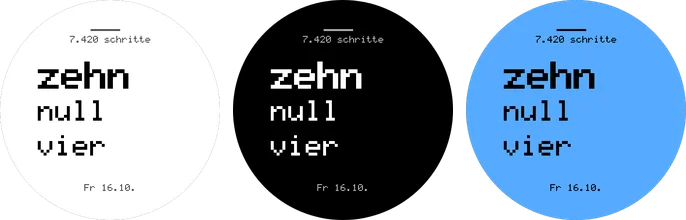
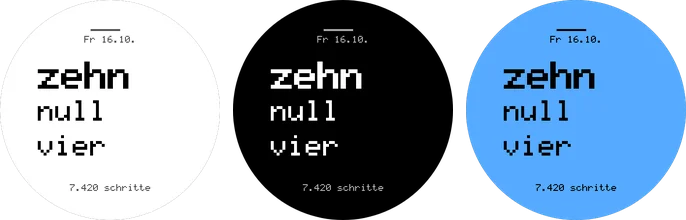
Kiesel Text: Datum oben, Schritte unten, ohne Bluetooth-Symbol
Oben Akku und Datum, unten das Datenfeld (Standard: Schritte, weiter
frei belegbar); das Bluetooth-Symbol und das Kiesel-Sprite fallen weg.

diff --git a/web/js/faces/ktext.js b/web/js/faces/ktext.js
@@ -1,17 +1,12 @@
 // KTEXT — "Kiesel Text": the Pebble's famous Text Watch in German. The time as words on up to three
 // lines, the hour in bold ("zehn / zweiund / vierzig", "zehn / null / sieben", "zehn / uhr"), set in
 // the bitmap font. On every wrist raise the lines slide in from the right one after the other, like
-// the minute change on the Pebble. Above a data field of your choice (steps by default) and the
-// battery, below the date (with a crossed-out Bluetooth icon when the phone is gone); otherwise as still
-// as e-paper. Styles: 1 Weiß, 2 Schwarz, 3 Farbe (Pebble Time palette).
+// the minute change on the Pebble. Above the battery and the date, below a data field of your choice
+// (steps by default); otherwise as still as e-paper. Styles: 1 Weiß, 2 Schwarz, 3 Farbe (Pebble Time palette).
 // Mirrors watch/source/faces/Ktext.mc.
 import { G } from "../engine/gfx.js";
 import { F } from "../engine/fonts.js";
 import { St } from "../engine/st.js";
-import { SPR, encodeAll } from "../engine/spr.js";
-import S from "../sprites/kiesel.js";
-
-const SP = encodeAll(S);
 const HW = ["zwölf", "eins", "zwei", "drei", "vier", "fünf", "sechs", "sieben", "acht", "neun", "zehn", "elf"];
 const ONES = ["", "eins", "zwei", "drei", "vier", "fünf", "sechs", "sieben", "acht", "neun"];
 const PRE = ["", "ein", "zwei", "drei", "vier", "fünf", "sechs", "sieben", "acht", "neun"];
@@ -51,7 +46,7 @@ function pal(st, acc) {
 export default {
   fps: 0,
 
-  // static layer: background, data field, battery, date, Bluetooth; the words slide in
+  // static layer: background, battery, date, data field; the words slide in
   bgKey(d) { return d.doy * 1440 + d.mins; },
   reveal() { return false; },
 
@@ -65,13 +60,9 @@ export default {
       dc.fillRectangle(0, 0, 454, 454);
       dc.setColor(P[2], -1);
       dc.fillRectangle(187, 60, Math.round(80 * G.clamp(d.batt / 100, 0, 1)), 4);
+      F.px(dc, DOW[d.dow] + " " + d.day + "." + d.mon + ".", 227, 74, 2, 1, 0);
       const s0 = d.slots[0];
-      if (s0.lbl) F.px(dc, s0.val + " " + s0.lbl.toLowerCase(), 227, 74, 2, 1, 0);
-      F.px(dc, DOW[d.dow] + " " + d.day + "." + d.mon + ".", 227, 380, 2, 1, 0);
-      if (!d.phone) {
-        SPR.draw(dc, SP.BT, 220, 402, 2, [-1, P[2]], false);
-        for (let i = 0; i < 7; i++) dc.fillRectangle(216 + i * 3, 400 + i * 3, 3, 3);
-      }
+      if (s0.lbl) F.px(dc, s0.val + " " + s0.lbl.toLowerCase(), 227, 380, 2, 1, 0);
     }
 
     if (!M) return;

diff --git a/README.md b/README.md
@@ -58,7 +58,7 @@ Heben gibt es die typische Animation.
 <table>
 <tr>
 <td align="center" valign="top" width="25%"><img src="docs/media/KIESEL.webp" width="180" alt="Kiesel"><br><b>Kiesel</b><br><sub>TicToc-Layout: Datum, Haarlinien, große runde Ziffern, Schritte mit Raster-Balken, Akku und Bluetooth</sub></td>
-<td align="center" valign="top" width="25%"><img src="docs/media/KTEXT.webp" width="180" alt="Kiesel Text"><br><b>Kiesel Text</b><br><sub>Die Text Watch auf Deutsch: „zehn / zweiund / vierzig“, oben ein Datenfeld nach Wahl, die Zeilen gleiten von rechts herein</sub></td>
+<td align="center" valign="top" width="25%"><img src="docs/media/KTEXT.webp" width="180" alt="Kiesel Text"><br><b>Kiesel Text</b><br><sub>Die Text Watch auf Deutsch: „zehn / zweiund / vierzig“, oben das Datum, unten ein Datenfeld nach Wahl (Schritte), die Zeilen gleiten von rechts herein</sub></td>
 <td align="center" valign="top" width="25%"><img src="docs/media/KANALOG.webp" width="180" alt="Kiesel Analog"><br><b>Kiesel Analog</b><br><sub>Simple Analog: kräftige Striche, roter Sekundenzeiger, Datum im Kästchen, Zeiger drehen ein</sub></td>
 <td align="center" valign="top" width="25%"><img src="docs/media/KROLL.webp" width="180" alt="Kiesel Rolle"><br><b>Kiesel Rolle</b><br><sub>Ziffernwalzen, die beim Heben wie ein Spielautomat rotieren und nacheinander einrasten</sub></td>
 </tr>
